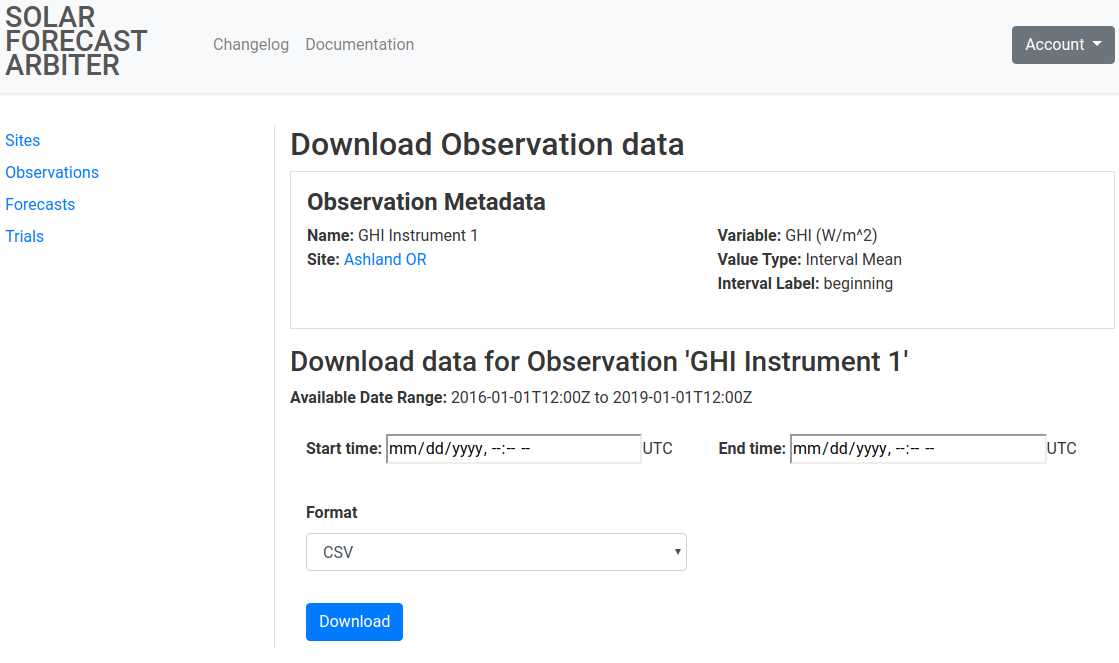
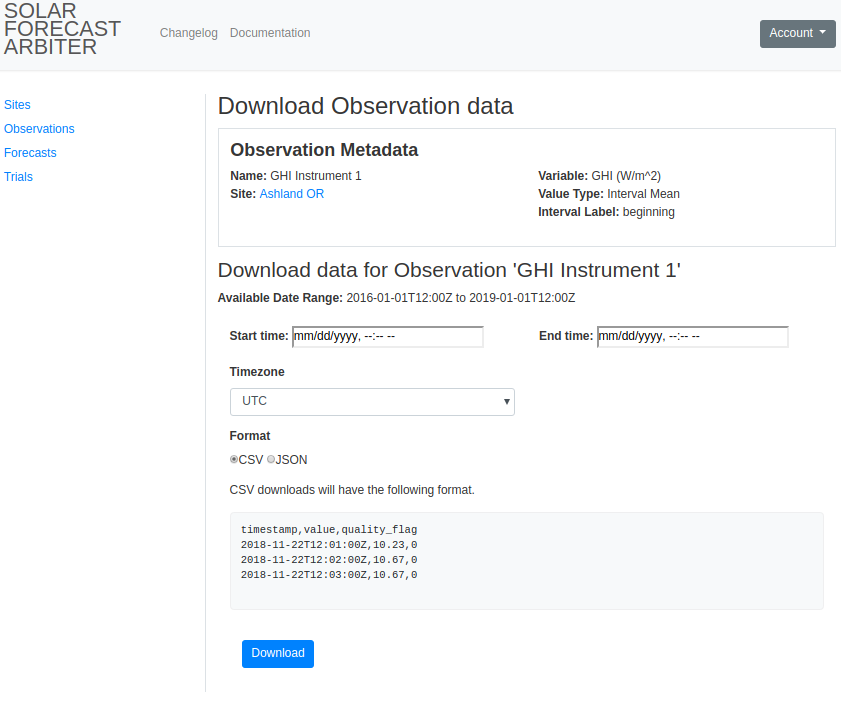
extra parameters placeholder, download form examples and radio buttons

diff --git a/dashboarddoc.md b/dashboarddoc.md
@@ -183,9 +183,9 @@ for details.
 2.  Click ‘Observations’ to find the Observations listing for that site.
 
 3.  Select an Observation. Click ‘Download Data’ on the Observation page.
+    <img class="my-3" src="/images/observation.png"/>
 
-4.  Specify a date range and format, and click download. Start and end
-	times must be in UTC. 
+4.  Specify a date range, timezone and format, and click download.
 
 	<img class="my-3" src="/images/obs_download.png">
 
@@ -197,9 +197,9 @@ for details.
 2.  Click ‘Forecasts’ to find the Observations listing for that site.
 
 3.  Select a Forecast. Click ‘Download Data’ on the Forecast page.
+	<img class="my-3" src="/images/forecast.png"/>
 
-4.  Specify a date range and format, and click download. Start and end
-	times must be in UTC. 
+4.  Specify a date range, timezone and format, and click download.
 
 	<img class="my-3" src="/images/fx_download.png">
 
